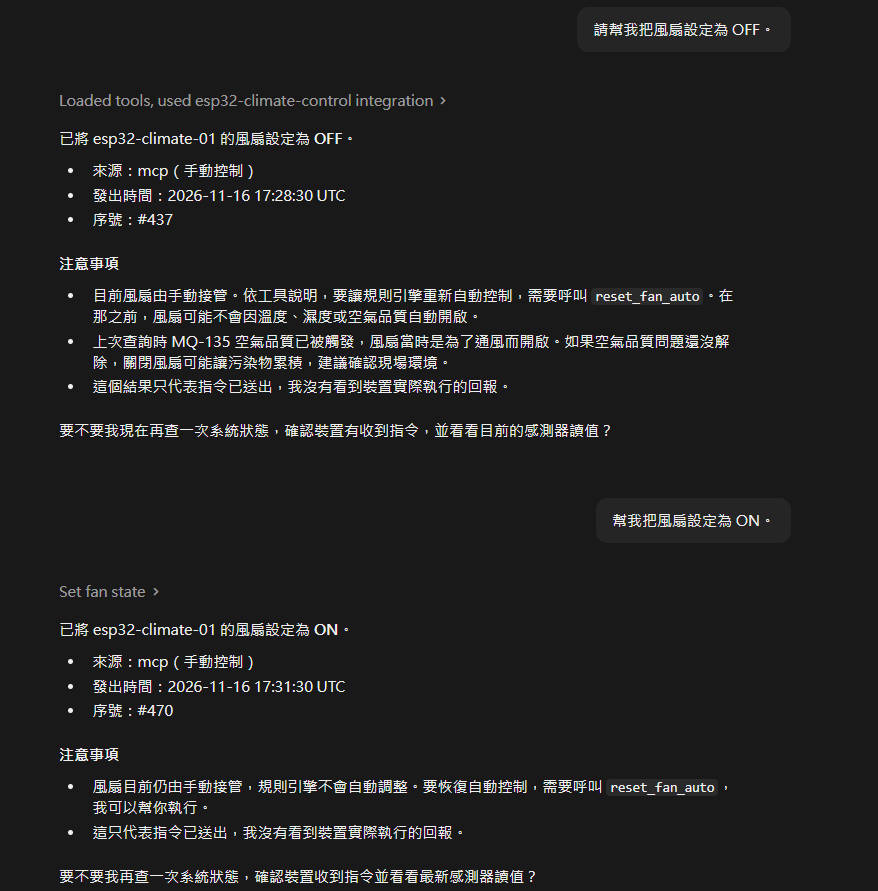
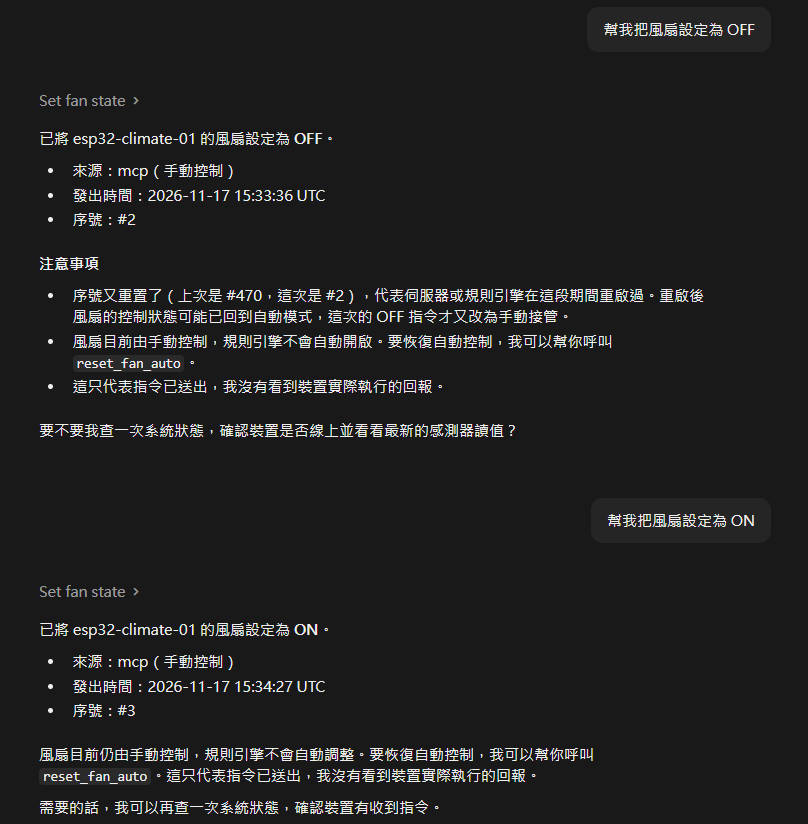
docs: update readme

diff --git a/README.md b/README.md
@@ -44,7 +44,6 @@ flowchart LR
 
 ```text
 esp32-mcp-climate-control/
-├── assets/                    # 專案截圖與視覺資源（如 Demo 截圖）
 ├── esp32/                     # ESP32 邊緣硬體韌體
 │   ├── config.py              # 網路參數與感測器 GPIO 接線設定
 │   └── main.py                # MicroPython 主程式（感測器採集與指令輪詢）
@@ -58,8 +57,7 @@ esp32-mcp-climate-control/
 ├── main.py                    # FastAPI 伺服器啟動入口 (Port 8801)
 ├── mcp_server.py              # MCP 伺服器（Claude Desktop 與系統溝通的橋樑）
 ├── pytest.ini                 # Pytest 測試配置設定
-├── requirements.txt           # Python 套件依賴清單
-└── README.md                  # 專案說明文件
+└── requirements.txt           # Python 套件依賴清單
 ```
 
 ### 快速開始
@@ -109,7 +107,7 @@ python examples/mcp_agent_consumer.py
 
 | 元件 | ESP32 腳位 | 備註 |
 | --- | --- | --- |
-| DHT11 溫溼度 | GPIO 21 | 量測範圍 0~50 °C / 20~90 % |
+| DHT11 溫溼度 | GPIO 21 | 量測範圍 0～50 °C / 20～90 % |
 | PIR 人體感測 | GPIO 14 | 高電位觸發（`PIR_ACTIVE_HIGH = True`） |
 | MQ-135 空氣品質 | GPIO 27 | 低電位觸發（`MQ_ACTIVE_LOW = True`） |
 | L9110 風扇 | GPIO 22 / 23 | INL / INR，`INL=0/INR=1` 運轉、`INL=0/INR=0` 停止 |
